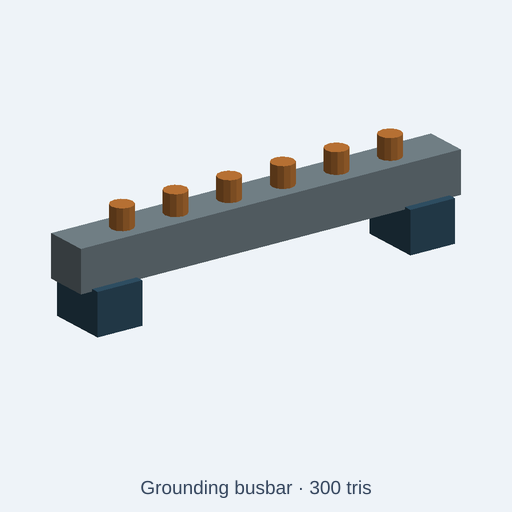
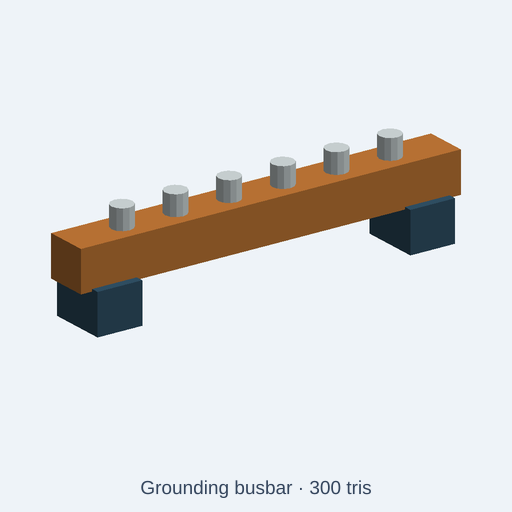
fix(catalog): colour grounding busbar conductor as copper
telecom-infrastructure/grounding-bar rendered its conductor bar with the
galvanizedSteel control; only the stub terminals were copper. A telecom
grounding busbar is a solid copper bar on standoff insulators. The rail
now uses copper, the six terminal studs use a new stainlessSteel control
set in both presets, and the unused galvanizedSteel control is removed.
Geometry unchanged (300 tris). Preview re-rendered; index regenerated
(target row only). Adds an exported-GLB regression test.

Five-preview ledger and before/after evidence in
artifacts/catalog-demos/telecom-grounding-busbar-copper-material-review-20261113.

Changed region(s): [[0.0938, 0.25, 0.9062, 0.5938]]

diff --git a/catalog/kits/telecom-infrastructure/grounding-bar.kcad.ts b/catalog/kits/telecom-infrastructure/grounding-bar.kcad.ts
@@ -1,11 +1,12 @@
 // SPDX-License-Identifier: CC0-1.0
-// Grounding busbar: Wall-mounted bonding bar with a thick base rail and six rounded-looking terminal posts with clearly separated telecom materials and visible component cues.
+// Grounding busbar: a telecom grounding busbar (TGB) is a solid copper bar held off the wall on two
+// polymer standoff insulators, with stainless terminal studs for the bonding-conductor lugs.
 
 meta({
   name: "grounding-bar",
   license: 'CC0-1.0',
   title: "Grounding busbar",
-  description: "Wall-mounted bonding bar with a thick base rail and six rounded-looking terminal posts. Knobs: overall scale; copper conductor, galvanized steel, engineering polymer and cable jacket.",
+  description: "Wall-mounted telecom grounding busbar: a solid copper bar on two polymer standoff insulators with six stainless terminal studs. Knobs: overall scale; copper busbar, stainless steel studs, polymer insulators.",
   tags: ['telecom', 'network', 'communications', 'infrastructure', 'low poly'],
   kit: 'telecom-infrastructure',
   category: 'prop',
@@ -16,18 +17,18 @@ meta({
 
 const scale = param('scale', 1, { min: 0.7, max: 1.3, step: 0.05, label: 'Overall scale' });
 
-const copper = param('copper', '#c27836', { label: 'Copper conductor' });
-const galvanizedSteel = param('galvanizedSteel', '#77868d', { label: 'Galvanized steel' });
-const polymer = param('polymer', '#315267', { label: 'Engineering polymer and cable jacket' });
+const copper = param('copper', '#c27836', { label: 'Copper busbar' });
+const stainlessSteel = param('stainlessSteel', '#d2dbdc', { label: 'Stainless steel terminal studs' });
+const polymer = param('polymer', '#315267', { label: 'Polymer standoff insulators' });
 presets({
   fieldSite: {
     copper: '#a96d37',
-    galvanizedSteel: '#8f9b9b',
+    stainlessSteel: '#b4bcbc',
     polymer: '#263a37',
   },
   highVisibility: {
     copper: '#c4823c',
-    galvanizedSteel: '#3a4b51',
+    stainlessSteel: '#e2e8e9',
     polymer: '#27363c',
   },
 });
@@ -36,14 +37,14 @@ const b = (x: number, y: number, z: number, w: number, d: number, h: number) => 
 const c = (x: number, y: number, z: number, h: number, r: number, n = 8) => cylinder(h, r, n).translate(x, y, z).scale(scale);
 
 const p = assembly("grounding-bar");
-p.part("rail", b(0, 0, 85, 850, 95, 90).color(galvanizedSteel));
+p.part("rail", b(0, 0, 85, 850, 95, 90).color(copper));
 p.part("insulator-left", b(-350, 0, 0, 100, 130, 90).color(polymer));
 p.part("insulator-right", b(350, 0, 0, 100, 130, 90).color(polymer));
-p.part("terminal-0", c(-300, 0, 130, 90, 24, 8).color(copper));
-p.part("terminal-1", c(-180, 0, 130, 90, 24, 8).color(copper));
-p.part("terminal-2", c(-60, 0, 130, 90, 24, 8).color(copper));
-p.part("terminal-3", c(60, 0, 130, 90, 24, 8).color(copper));
-p.part("terminal-4", c(180, 0, 130, 90, 24, 8).color(copper));
-p.part("terminal-5", c(300, 0, 130, 90, 24, 8).color(copper));
+p.part("terminal-0", c(-300, 0, 130, 90, 24, 8).color(stainlessSteel));
+p.part("terminal-1", c(-180, 0, 130, 90, 24, 8).color(stainlessSteel));
+p.part("terminal-2", c(-60, 0, 130, 90, 24, 8).color(stainlessSteel));
+p.part("terminal-3", c(60, 0, 130, 90, 24, 8).color(stainlessSteel));
+p.part("terminal-4", c(180, 0, 130, 90, 24, 8).color(stainlessSteel));
+p.part("terminal-5", c(300, 0, 130, 90, 24, 8).color(stainlessSteel));
 
 return p.model();

diff --git a/tests/integration/catalog/groundingBusbarCopper.test.ts b/tests/integration/catalog/groundingBusbarCopper.test.ts
@@ -1,0 +1,69 @@
+// SPDX-License-Identifier: MIT
+// Copyright (c) 2026 Andrii Shylenko and kernelCAD contributors
+
+import { resolve } from 'node:path';
+import { NodeIO } from '@gltf-transform/core';
+import { beforeAll, describe, expect, it } from 'vitest';
+import { buildCatalogAssetWithGlb } from '../../../src/agent/catalog/buildCatalog';
+import { initOcct } from '../../../src/kernel/backends/occt/occtBackend';
+
+const repoRoot = resolve(import.meta.dirname, '../../..');
+const source = 'catalog/kits/telecom-infrastructure/grounding-bar.kcad.ts';
+const terminals = Array.from({ length: 6 }, (_, index) => `terminal-${index}`);
+
+const parseHex = (hex: string): number[] => [0, 1, 2].map((index) =>
+  Number.parseInt(hex.slice(1 + index * 2, 3 + index * 2), 16) / 255,
+);
+
+beforeAll(async () => {
+  await initOcct();
+}, 120_000);
+
+describe('telecom-infrastructure/grounding-bar materials', () => {
+  it('colours the busbar as copper and the terminal studs as stainless steel', async () => {
+    const { asset, glb } = await buildCatalogAssetWithGlb(repoRoot, source);
+
+    expect(asset.stats.triangles).toBe(300);
+    expect(asset.stats.triangles).toBeLessThanOrEqual(asset.triangleBudget);
+    expect(asset.params.map((param) => param.name)).not.toContain('galvanizedSteel');
+    expect(asset.presets).toMatchObject({
+      fieldSite: { copper: '#a96d37', stainlessSteel: '#b4bcbc' },
+      highVisibility: { copper: '#c4823c', stainlessSteel: '#e2e8e9' },
+    });
+
+    const zone = (name: string) => asset.palette.find((entry) => entry.name === name)?.parts ?? [];
+    expect(zone('copper')).toEqual(['rail']);
+    expect([...zone('stainlessSteel')].sort()).toEqual(terminals);
+    expect([...zone('polymer')].sort()).toEqual(['insulator-left', 'insulator-right']);
+
+    const nodes = (await new NodeIO().readBinary(glb)).getRoot().listNodes();
+    const colorsOf = (partName: string): number[][] => {
+      const node = nodes.find((candidate) => candidate.getName() === partName);
+      expect(node, `expected exported node ${partName}`).toBeDefined();
+      return node?.getMesh()?.listPrimitives().flatMap((primitive) => {
+        const vertexColors = primitive.getAttribute('COLOR_0');
+        if (vertexColors !== null) {
+          return Array.from({ length: vertexColors.getCount() }, (_, index) =>
+            vertexColors.getElement(index, []).slice(0, 3).map((channel) =>
+              channel <= 0.0031308 ? 12.92 * channel : 1.055 * channel ** (1 / 2.4) - 0.055,
+            ),
+          );
+        }
+        const material = primitive.getMaterial();
+        return material === null ? [] : [material.getBaseColorFactor().slice(0, 3)];
+      }) ?? [];
+    };
+    const expectColor = (partName: string, hex: string) => {
+      const expected = parseHex(hex);
+      const colors = colorsOf(partName);
+      expect(colors.length, `expected exported colors for ${partName}`).toBeGreaterThan(0);
+      expect(
+        colors.every((color) => expected.every((channel, index) => Math.abs(channel - color[index]!) < 0.015)),
+        `${partName} should match ${hex}`,
+      ).toBe(true);
+    };
+
+    expectColor('rail', '#c27836');
+    for (const terminal of terminals) expectColor(terminal, '#d2dbdc');
+  }, 120_000);
+});

diff --git a/artifacts/catalog-demos/telecom-grounding-busbar-copper-material-review-20261113/after/grounding-bar.kcad.ts b/artifacts/catalog-demos/telecom-grounding-busbar-copper-material-review-20261113/after/grounding-bar.kcad.ts
@@ -1,0 +1,50 @@
+// SPDX-License-Identifier: CC0-1.0
+// Grounding busbar: a telecom grounding busbar (TGB) is a solid copper bar held off the wall on two
+// polymer standoff insulators, with stainless terminal studs for the bonding-conductor lugs.
+
+meta({
+  name: "grounding-bar",
+  license: 'CC0-1.0',
+  title: "Grounding busbar",
+  description: "Wall-mounted telecom grounding busbar: a solid copper bar on two polymer standoff insulators with six stainless terminal studs. Knobs: overall scale; copper busbar, stainless steel studs, polymer insulators.",
+  tags: ['telecom', 'network', 'communications', 'infrastructure', 'low poly'],
+  kit: 'telecom-infrastructure',
+  category: 'prop',
+  origin: 'base',
+  compat: ['telecom', 'network', 'infrastructure', 'industrial'],
+  triangleBudget: 900,
+});
+
+const scale = param('scale', 1, { min: 0.7, max: 1.3, step: 0.05, label: 'Overall scale' });
+
+const copper = param('copper', '#c27836', { label: 'Copper busbar' });
+const stainlessSteel = param('stainlessSteel', '#d2dbdc', { label: 'Stainless steel terminal studs' });
+const polymer = param('polymer', '#315267', { label: 'Polymer standoff insulators' });
+presets({
+  fieldSite: {
+    copper: '#a96d37',
+    stainlessSteel: '#b4bcbc',
+    polymer: '#263a37',
+  },
+  highVisibility: {
+    copper: '#c4823c',
+    stainlessSteel: '#e2e8e9',
+    polymer: '#27363c',
+  },
+});
+
+const b = (x: number, y: number, z: number, w: number, d: number, h: number) => box(w, d, h, true).translate(x, y, z + h / 2).scale(scale);
+const c = (x: number, y: number, z: number, h: number, r: number, n = 8) => cylinder(h, r, n).translate(x, y, z).scale(scale);
+
+const p = assembly("grounding-bar");
+p.part("rail", b(0, 0, 85, 850, 95, 90).color(copper));
+p.part("insulator-left", b(-350, 0, 0, 100, 130, 90).color(polymer));
+p.part("insulator-right", b(350, 0, 0, 100, 130, 90).color(polymer));
+p.part("terminal-0", c(-300, 0, 130, 90, 24, 8).color(stainlessSteel));
+p.part("terminal-1", c(-180, 0, 130, 90, 24, 8).color(stainlessSteel));
+p.part("terminal-2", c(-60, 0, 130, 90, 24, 8).color(stainlessSteel));
+p.part("terminal-3", c(60, 0, 130, 90, 24, 8).color(stainlessSteel));
+p.part("terminal-4", c(180, 0, 130, 90, 24, 8).color(stainlessSteel));
+p.part("terminal-5", c(300, 0, 130, 90, 24, 8).color(stainlessSteel));
+
+return p.model();

diff --git a/artifacts/catalog-demos/telecom-grounding-busbar-copper-material-review-20261113/before/grounding-bar.kcad.ts b/artifacts/catalog-demos/telecom-grounding-busbar-copper-material-review-20261113/before/grounding-bar.kcad.ts
@@ -1,0 +1,49 @@
+// SPDX-License-Identifier: CC0-1.0
+// Grounding busbar: Wall-mounted bonding bar with a thick base rail and six rounded-looking terminal posts with clearly separated telecom materials and visible component cues.
+
+meta({
+  name: "grounding-bar",
+  license: 'CC0-1.0',
+  title: "Grounding busbar",
+  description: "Wall-mounted bonding bar with a thick base rail and six rounded-looking terminal posts. Knobs: overall scale; copper conductor, galvanized steel, engineering polymer and cable jacket.",
+  tags: ['telecom', 'network', 'communications', 'infrastructure', 'low poly'],
+  kit: 'telecom-infrastructure',
+  category: 'prop',
+  origin: 'base',
+  compat: ['telecom', 'network', 'infrastructure', 'industrial'],
+  triangleBudget: 900,
+});
+
+const scale = param('scale', 1, { min: 0.7, max: 1.3, step: 0.05, label: 'Overall scale' });
+
+const copper = param('copper', '#c27836', { label: 'Copper conductor' });
+const galvanizedSteel = param('galvanizedSteel', '#77868d', { label: 'Galvanized steel' });
+const polymer = param('polymer', '#315267', { label: 'Engineering polymer and cable jacket' });
+presets({
+  fieldSite: {
+    copper: '#a96d37',
+    galvanizedSteel: '#8f9b9b',
+    polymer: '#263a37',
+  },
+  highVisibility: {
+    copper: '#c4823c',
+    galvanizedSteel: '#3a4b51',
+    polymer: '#27363c',
+  },
+});
+
+const b = (x: number, y: number, z: number, w: number, d: number, h: number) => box(w, d, h, true).translate(x, y, z + h / 2).scale(scale);
+const c = (x: number, y: number, z: number, h: number, r: number, n = 8) => cylinder(h, r, n).translate(x, y, z).scale(scale);
+
+const p = assembly("grounding-bar");
+p.part("rail", b(0, 0, 85, 850, 95, 90).color(galvanizedSteel));
+p.part("insulator-left", b(-350, 0, 0, 100, 130, 90).color(polymer));
+p.part("insulator-right", b(350, 0, 0, 100, 130, 90).color(polymer));
+p.part("terminal-0", c(-300, 0, 130, 90, 24, 8).color(copper));
+p.part("terminal-1", c(-180, 0, 130, 90, 24, 8).color(copper));
+p.part("terminal-2", c(-60, 0, 130, 90, 24, 8).color(copper));
+p.part("terminal-3", c(60, 0, 130, 90, 24, 8).color(copper));
+p.part("terminal-4", c(180, 0, 130, 90, 24, 8).color(copper));
+p.part("terminal-5", c(300, 0, 130, 90, 24, 8).color(copper));
+
+return p.model();

diff --git a/docs/quality/asset-semantic-2026-11-13.md b/docs/quality/asset-semantic-2026-11-13.md
@@ -21,3 +21,12 @@ The other four previews read as their named mining equipment, with no valid mate
 - Target preview was regenerated and catalog/index.json rebuilt from sources. The verifier found only the longwall-shearer row changed, with a fresh source SHA and existing preview path.
 
 The [handoff bundle](../../artifacts/catalog-demos/mining-longwall-shearer-pick-material-review-20261113/README.md) retains before/after source and previews, the five-preview sample, local verification logs and an inspected MP4. The public route currently serves the older 224-triangle render; this branch is not deployed. Local previews and GLB tests show authored catalog behavior only, not mine-process simulation or equipment acceptance.
+
+## Telecom grounding busbar conductor material
+
+- Baseline PR #1258 head `c325a1958`, 17/17 checks passed. No open PR touches the telecom-infrastructure kit; no open issue or PR matches "grounding". The kit had no earlier semantic review.
+- Reviewed `grounding-bar`, `grounding-rod-kit`, `lightning-air-terminal`, `waveguide-bridge`, `microwave-dish-antenna`. All five read as their named objects.
+- `grounding-bar` coloured the conductor bar with `galvanizedSteel`; only the stub studs were copper. A telecom grounding busbar is a solid copper bar on standoff insulators. The bar now uses `copper`; the studs use a new `stainlessSteel` control; the unused `galvanizedSteel` control was removed. Geometry unchanged at 300 triangles.
+- Recorded, not fixed: powder-coated base plate on `lightning-air-terminal`.
+- Evidence: [review bundle](../../artifacts/catalog-demos/telecom-grounding-busbar-copper-material-review-20261113/README.md).
+- Verification: focused exported-GLB test 1/1 passed and fails on the old source; ESLint clean; telecom-infrastructure structural gate 56/56; `tests/integration/catalog/` 54 files / 87 tests passed in 621 s; rebuilt index has 2,402 assets / 50 kits, no source-hash mismatches, and only the grounding-bar row changed. No MP4 was produced for this colour-only correction.

diff --git a/artifacts/catalog-demos/telecom-grounding-busbar-copper-material-review-20261113/preview-ledger.md b/artifacts/catalog-demos/telecom-grounding-busbar-copper-material-review-20261113/preview-ledger.md
@@ -1,0 +1,13 @@
+# Five-preview ledger — telecom-infrastructure, 2026-11-13
+
+Baseline: PR #1258 head c325a1958, 17/17 checks passed. No open PR touches
+`catalog/kits/telecom-infrastructure/`; open issue/PR search for "grounding" returned none.
+Kit had no earlier semantic material review. Sample sheet: `sample/five-preview-sample.png`.
+
+| Asset | Reads as object | Material observation | Action |
+|---|---|---|---|
+| grounding-bar | Yes: bar on two standoffs with six studs | Conductor bar used `galvanizedSteel`; only the studs were copper. A telecom grounding busbar (TGB) is a solid copper bar. | Fixed |
+| grounding-rod-kit | Yes: three driven rods, clamps, bonding bar | Copper rods and bar, stainless clamps. Clamps are commonly bronze; acceptable. | None |
+| lightning-air-terminal | Yes: rod, collar, base plate | Base plate is powder-coated teal; real bases are usually galvanized or cast. Minor colour choice, not a conductor mismatch. | Recorded only |
+| waveguide-bridge | Yes: raised tray on two frames, three jacketed runs | Galvanized tray and legs, powder-coated side rails, polymer jackets. Coherent. | None |
+| microwave-dish-antenna | Yes: shrouded dish, ODU, pole mount | Aluminium reflector, polymer radome, galvanized mount, powder-coated ODU. Coherent. | None |

diff --git a/artifacts/catalog-demos/telecom-grounding-busbar-copper-material-review-20261113/README.md b/artifacts/catalog-demos/telecom-grounding-busbar-copper-material-review-20261113/README.md
@@ -1,0 +1,16 @@
+# Telecom grounding busbar — copper material review (2026-11-13)
+
+**Conclusion.** `telecom-infrastructure/grounding-bar` rendered its conductor bar as galvanized
+steel. The bar is now copper and the six terminal studs are stainless steel.
+
+**Evidence.**
+- `before/` and `after/`: source and preview. `before-after.png`: side by side.
+- `sample/five-preview-sample.png` and `preview-ledger.md`: the five previews checked.
+- `verification/`: preview render, index build and index verification, ESLint (empty log = clean), focused test, test failing on the old source, full `tests/integration/catalog/` run (54 files / 87 tests passed).
+
+**Change.** `rail` uses `copper` (`#c27836`). Terminals use a new `stainlessSteel` control
+(`#d2dbdc`, same default as the kit's other stainless parts). The unused `galvanizedSteel`
+control was removed; both presets set `stainlessSteel`. Geometry unchanged: 300 triangles.
+
+**Limits.** This is an authored catalog colour correction. It does not establish a vendor
+design, bar cross-section, tin plating, hole pattern or TIA-607 compliance.
